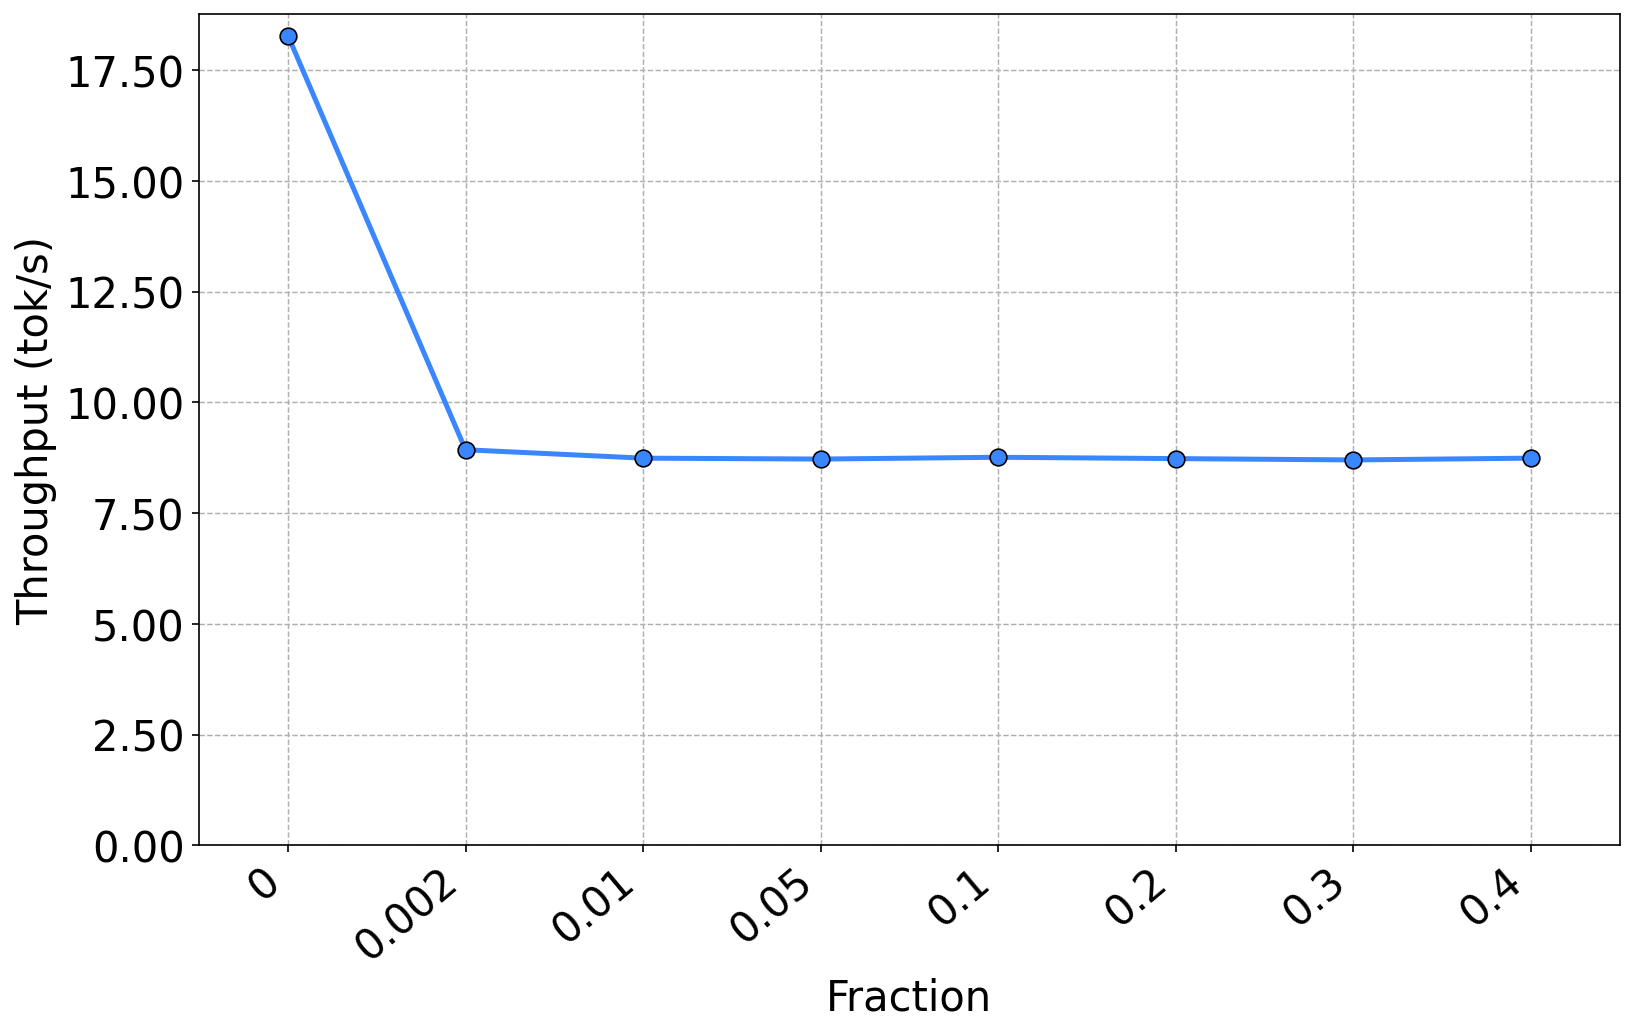
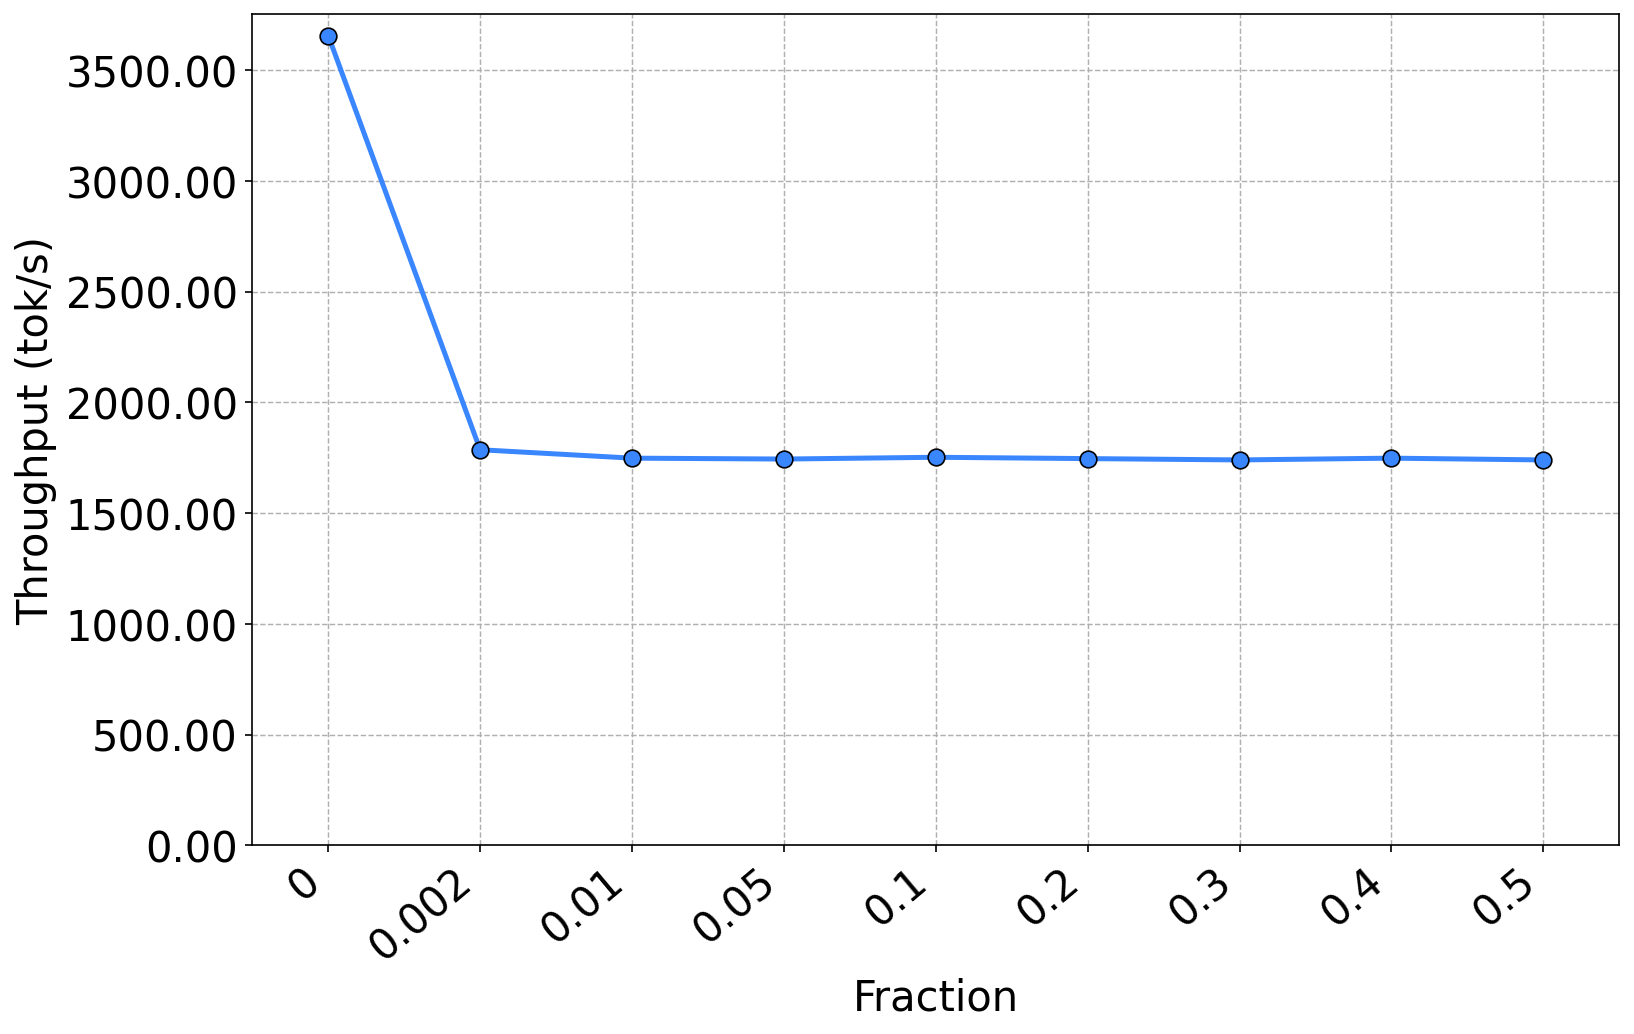
two-fam updated plots

diff --git a/code/vllm/two_families_logs/plot.py b/code/vllm/two_families_logs/plot.py
@@ -58,7 +58,7 @@ def read_throughput(filepath: str) -> float:
         for line in f:
             m = pattern.search(line)
             if m:
-                return float(m.group(1))
+                return float(m.group(1))*200
     raise ValueError(f"No throughput found in {filepath}")
 
 
